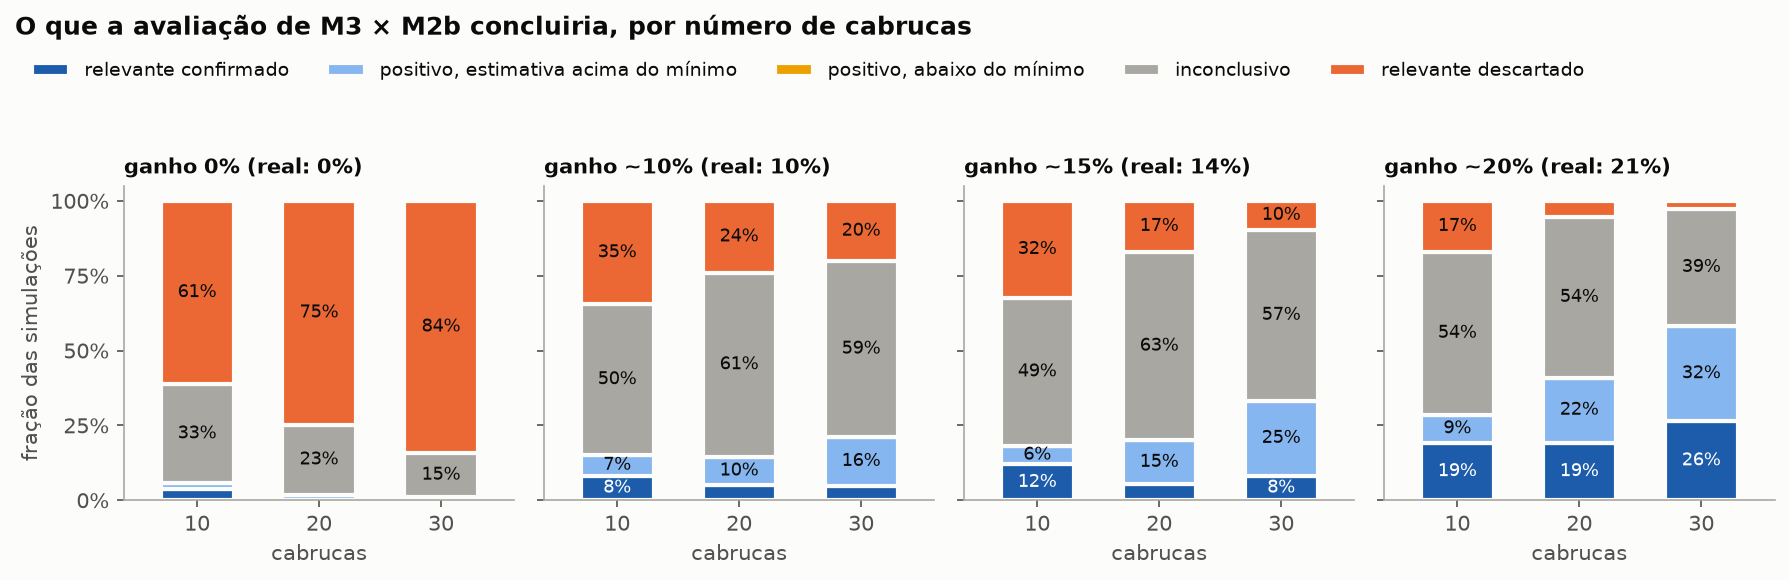
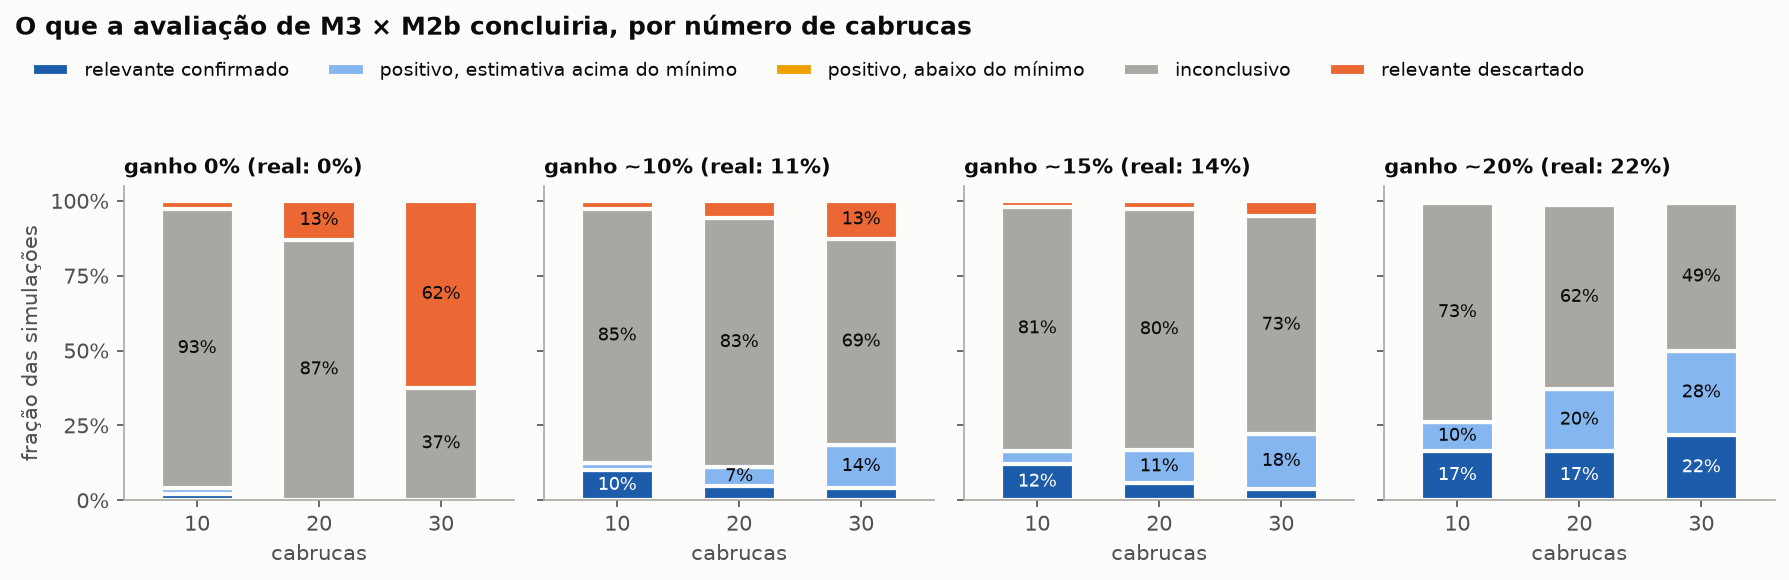
docs: H2 as estimation with refit-bootstrap interval and achievable-gain estimand
Records the 500-replicate coverage comparison (run at f25fdcd): basic
refit bootstrap covers 90% overall vs 74% for the previous method.
Decision E becomes an interpretation rule with written categories.

diff --git a/docs/simulacao-dimensionamento.md b/docs/simulacao-dimensionamento.md
@@ -1,10 +1,10 @@
 # Simulação de dimensionamento: quantas cabrucas?
 
-**Data:** 2026-10-03 · **Status:** segunda rodada, revisada; informa a decisão C do [desenho analítico](desenho-analitico.md) (seção 9) e mostra que o método de intervalo da seção 4 precisa ser trocado
+**Data:** 2026-10-04 · **Status:** terceira rodada; fecha o método de inferência e o estimando de H2 ([desenho analítico](desenho-analitico.md), seção 4) e informa a decisão C (seção 9)
 
 ## Pergunta
 
-Com 10, 20 ou 30 cabrucas, a análise principal do desenho consegue avaliar se a dimensão temporal do Sentinel-2 acrescenta um ganho relevante (H2: M3 × M2b; decisão E: pelo menos 10% do MAE de M2b)?
+Com 10, 20 ou 30 cabrucas, com que precisão a análise principal do desenho estima o ganho da dimensão temporal do Sentinel-2 (H2: M3 × M2b), e qual método de intervalo tem a cobertura que promete?
 
 ## O que foi simulado
 
@@ -13,58 +13,82 @@ A simulação gera dados com a estrutura que o estudo supõe e aplica a análise
 1. **Condição ecológica latente** de cada cabruca: estado médio do dossel (30% da variância), contexto da paisagem (20%), dinâmica temporal (o que H2 testa) e um resíduo que nenhum preditor capta.
 2. **Comunidade de aves:** 140 espécies, metade florestais (escala de Oliveira *et al.* 2026); a chance de ocupar a cabruca sobe com a condição para as florestais. Os parâmetros das espécies são sorteados por repetição.
 3. **Observação:** 252 minutos por cabruca × campanha (um ponto do protocolo inicial); chance por minuto de cada espécie presente ser gravada sorteada entre 0,0005 e 0,03, o que detecta cerca de 56% das espécies presentes; o reconhecedor acerta 80% das vocalizações gravadas e inclui por engano 1% das espécies ausentes.
-4. **Referência (decisão B1):** união das listas de 5 matas independentes.
+4. **Referência (decisão B1):** união das listas de 5 matas independentes, sorteada uma vez por repetição e compartilhada pela amostra e pelos ganhos de referência (na rodada anterior cada amostra tinha a sua, o que somava ruído aos ganhos de referência).
 5. **Resposta:** distância de Jaccard entre a lista da cabruca e a referência.
 6. **Preditores com ruído:** janela recente, mediana anual, dinâmica e paisagem.
-7. **Análise do desenho:** M2b e M3 em regressão ridge (λ = 1), cada cabruca prevista por um modelo ajustado sem ela; ganho = 1 − MAE(M3)/MAE(M2b), com intervalo de 90% por reamostragem pareada de cabrucas.
-8. **Ganho verdadeiro** de cada repetição: mesma comunidade, modelo ajustado em 4.000 propriedades e avaliado em outras 4.000.
+7. **Análise do desenho:** M2b e M3 em regressão ridge (λ = 1), cada cabruca prevista por um modelo ajustado sem ela; ganho = 1 − MAE(M3)/MAE(M2b).
+8. **Dois estimandos**, no mesmo mundo da repetição, medidos em 4.000 propriedades novas: o **ganho de população** (modelos ajustados em outras 4.000) e o **ganho alcançável com o n do estudo** (média de 100 ajustes com n cabrucas).
 
-Os cenários foram **calibrados pelo ganho verdadeiro**: 0%, ~10%, ~15% e ~20% do MAE. Os dois últimos exigem um descritor de dinâmica menos ruidoso que o suposto inicialmente (ruído 0,4 em vez de 0,7); ganhos acima de ~24% não são alcançáveis nesta estrutura, porque dossel e paisagem já explicam metade da variância. São 500 repetições por cenário; código em `src/satbio/simulacao.py`, execução com `uv run python scripts/simulacao_dimensionamento.py` (cerca de 3 minutos).
+Os cenários foram **calibrados pelo ganho de população**: 0%, ~10%, ~15% e ~20% do MAE. Os dois últimos exigem um descritor de dinâmica menos ruidoso que o suposto inicialmente (ruído 0,4 em vez de 0,7). São 500 repetições por cenário; código em `src/satbio/simulacao.py`, execução com `uv run python scripts/simulacao_dimensionamento.py` (cerca de 3 minutos em 10 núcleos). Saídas e manifesto em `data/processed/simulacao/` (fora do git).
+
+## Método de inferência
+
+Quatro intervalos de 90% foram calculados em cada repetição:
+
+- **Erros fixos** (o método anterior do desenho): reamostragem pareada dos erros da validação deixando um fora.
+- **Reajuste, percentil:** reamostragem de propriedades com reposição; em cada réplica os modelos são reajustados e a validação por propriedade retida é refeita, com as cópias da retida fora do treino (200 réplicas na simulação). Intervalo pelos quantis das réplicas.
+- **Reajuste, básico:** as mesmas réplicas, intervalo 2·ganho − quantis. Cada réplica treina com cerca de 63% de propriedades distintas e por isso sai deslocada para baixo; o intervalo básico desconta esse deslocamento.
+- **Validação cruzada corrigida:** 5 dobras repetidas 20 vezes, variância da razão pelo método delta com a correção de Nadeau & Bengio (2003) na forma de Bouckaert & Frank (2004).
+
+Também foi feito o **teste de permutação** do descritor de dinâmica (199 permutações), que testa só se o ganho é maior que zero.
+
+**Cobertura do IC90 contra o ganho alcançável** (erro de Monte Carlo de ±1,3 ponto por célula):
+
+| Cabrucas | Ganho de população | Ganho alcançável | Erros fixos | Reajuste, percentil | **Reajuste, básico** | CV corrigida |
+|---|---|---|---|---|---|---|
+| 10 | 0% | −6% | 79% | 100% | 93% | 92% |
+| 10 | 11% | 5% | 60% | 99% | 87% | 78% |
+| 10 | 14% | 9% | 58% | 100% | 86% | 74% |
+| 10 | 22% | 17% | 63% | 99% | 85% | 74% |
+| 20 | 0% | −3% | 82% | 100% | 99% | 99% |
+| 20 | 11% | 8% | 72% | 94% | 92% | 78% |
+| 20 | 14% | 12% | 75% | 93% | 91% | 80% |
+| 20 | 22% | 20% | 78% | 96% | 89% | 82% |
+| 30 | 0% | −2% | 83% | 100% | 100% | 99% |
+| 30 | 11% | 9% | 77% | 90% | 86% | 81% |
+| 30 | 14% | 13% | 81% | 93% | 89% | 84% |
+| 30 | 22% | 21% | 83% | 93% | 87% | 85% |
+| **Geral** | | | **74%** | **97%** | **90%** | **84%** |
+
+Contra o ganho de população, as coberturas gerais são 67%, 95%, 90% e 81%.
+
+**Escolha (2026-10-04): reamostragem de propriedades com reajuste, intervalo básico**, por ter a cobertura geral mais próxima de 90%. Ela fica abaixo de 90% em alguns cenários com ganho (85% a 89%, até 4 pontos além do erro de Monte Carlo) e acima sem ganho (93% a 100%), o que torna falsos positivos raros. O intervalo percentil nunca fica abaixo de 90%, mas é conservador (97% no geral, largura igual); fica registrado como análise de sensibilidade. A validação cruzada corrigida e o método anterior cobrem pouco quando há ganho. O teste de permutação tem o tamanho correto (rejeita 4,6% a 5% das vezes sem ganho, para α = 5%) e é reportado ao lado do intervalo.
+
+**Estimando: ganho alcançável com o n do estudo.** A justificativa está no desenho analítico (seção 4). O ganho alcançável fica 5 pontos abaixo do de população com 10 cabrucas e 1,5 com 30.
 
 ## Resultado
 
 ![Resultado da simulação por número de cabrucas e ganho verdadeiro](img/simulacao-dimensionamento.png)
 
-**Precisão e confiabilidade da estimativa do ganho** (o que fecha a decisão C):
+**Precisão da estimativa do ganho, com o método adotado:**
 
-| Cabrucas | Ganho verdadeiro | Estimativa média | Desvio-padrão da estimativa | Largura do IC90 | Cobertura do IC90 |
-|---|---|---|---|---|---|
-| 10 | 0% | −6% | 0,17 | 0,39 | 56% |
-| 10 | 21% | 14% | 0,24 | 0,47 | 55% |
-| 20 | 0% | −3% | 0,06 | 0,17 | 60% |
-| 20 | 21% | 18% | 0,14 | 0,37 | 73% |
-| 30 | 0% | −2% | 0,04 | 0,11 | 61% |
-| 30 | 21% | 20% | 0,11 | 0,31 | 78% |
-
-**O que a regra da decisão E concluiria** (fração das repetições):
-
-| Cabrucas | Ganho verdadeiro | Relevante confirmado | Positivo, estimativa ≥ 10% | Positivo, abaixo de 10% | Inconclusivo | Relevante descartado |
+| Cabrucas | Ganho alcançável | Estimativa média | Desvio-padrão da estimativa | Largura mediana do IC90 | IC exclui zero | Permutação rejeita (5%) |
 |---|---|---|---|---|---|---|
-| 10 | 0% | 4% | 2% | 0% | 33% | 61% |
-| 10 | 21% | 19% | 9% | 0% | 54% | 17% |
-| 20 | 0% | 0% | 2% | 0% | 23% | 75% |
-| 20 | 21% | 19% | 22% | 0% | 54% | 5% |
-| 30 | 0% | 0% | 1% | 0% | 15% | 84% |
-| 30 | 21% | 26% | 32% | 0% | 39% | 3% |
+| 10 | −6% | −6% | 0,16 | 1,04 | 4% | 5% |
+| 10 | 17% | 14% | 0,22 | 1,02 | 26% | 34% |
+| 20 | −3% | −3% | 0,06 | 0,40 | 0% | 5% |
+| 20 | 8% | 8% | 0,12 | 0,54 | 11% | 38% |
+| 20 | 20% | 19% | 0,14 | 0,59 | 37% | 74% |
+| 30 | −2% | −2% | 0,04 | 0,23 | 0% | 5% |
+| 30 | 9% | 9% | 0,10 | 0,38 | 18% | 56% |
+| 30 | 21% | 20% | 0,11 | 0,44 | 50% | 89% |
 
-"Relevante confirmado": o intervalo inteiro acima de 10%. "Positivo, estimativa ≥ 10%": o intervalo exclui zero e a estimativa passa de 10%, mas o intervalo ainda admite ganho irrelevante. A tabela completa (com os cenários de ~10% e ~15%) fica em `data/processed/simulacao/resumo.csv`.
+A tabela completa (todos os cenários, leituras da decisão E, viés de cada método) fica em `data/processed/simulacao/resumo.csv`.
 
 ## O que isso quer dizer
 
-- **O intervalo do desenho não é confiável com 10 a 30 cabrucas.** Um IC90 deveria cobrir o ganho verdadeiro em 90% das vezes; aqui cobre de 54% a 81%. Há duas causas. (1) **Viés para baixo**: com poucas cabrucas, o modelo maior paga o custo de estimar um parâmetro a mais, e a estimativa sai abaixo do ganho de população (−6 a −8 pontos com 10 cabrucas, −1 a −2 com 30). (2) **Intervalo estreito demais**: a reamostragem dos erros da validação deixando um fora trata esses erros como independentes, mas eles compartilham dados de treino; com 10 cabrucas o intervalo tem largura 0,47 quando a dispersão real pediria cerca de 0,7. Por isso, sem nenhum ganho real e com 10 cabrucas, a regra "confirma" ganho relevante em 4% das vezes.
-- **10 cabrucas não informam sobre H2.** A estimativa varia ±0,2 a 0,24 (um desvio-padrão), mais que qualquer ganho plausível.
-- **Com 30 cabrucas, um ganho de 20% começa a aparecer.** O intervalo exclui zero em 58% das repetições e o ganho é descartado em só 3%; o desvio-padrão da estimativa cai para 0,11. Um ganho de 10% continua majoritariamente inconclusivo em qualquer n testado.
-- **Precisão por número de cabrucas.** O desvio-padrão da estimativa cai de ~0,22 (10) para ~0,13 (20) e ~0,10 (30). Distinguir com folga um ganho de 20% de zero pediria desvio-padrão de cerca de 0,07, o que, pela tendência, exigiria por volta de 60 cabrucas.
-- **O MAE comprime o ganho.** Como propriedade da métrica: com erros aproximadamente normais, a razão dos MAE é a raiz da razão dos MSE, então 10% de ganho em MAE corresponde a cerca de 19% de redução do erro quadrático. Nos cenários, um ganho de 21% em MAE corresponde a cerca de 37% em MSE.
+- **O intervalo antigo prometia mais precisão do que havia.** Com intervalos que cobrem o que prometem, a largura do IC90 é 1,0 com 10 cabrucas, 0,4 a 0,6 com 20 e 0,23 a 0,44 com 30. A largura com ganho é maior que sem ganho porque a variância do ganho cresce com ele.
+- **10 cabrucas não informam sobre H2:** o intervalo cobre de −50% a +50%.
+- **Com 30 cabrucas, um ganho de 20% é estimado com intervalo de ±0,22.** O intervalo exclui zero em metade das repetições; o teste de permutação rejeita em 89%. Um ganho de 10% fica com intervalo de ±0,19, do tamanho do próprio ganho.
+- **O teste de permutação tem bem mais poder que o intervalo** para dizer que há ganho, mas não diz quanto. É o resultado complementar natural para "a dinâmica acrescenta algo?".
+- **O MAE comprime o ganho.** Com erros aproximadamente normais, a razão dos MAE é a raiz da razão dos MSE: 10% de ganho em MAE corresponde a cerca de 19% em MSE.
 
 ## Limites
 
-Os números valem para as suposições acima, que não foram medidas em cabruca: frações de sinal, detectabilidade, erro do reconhecedor, ruído dos descritores e condição das matas. Preditores independentes entre si tornam a simulação otimista (na prática, a dinâmica do dossel se correlaciona com o estado médio). A simulação usa uma campanha por cabruca, não modela lacunas ópticas além do ruído, nem dependência espacial entre propriedades vizinhas, nem a opção B2 de referência, e usa ridge com λ fixo (quase uma regressão comum com tão poucas cabrucas). O piloto de campo e a parceria devem trazer valores melhores para essas suposições, e a simulação deve ser rodada de novo antes de fechar a decisão C.
+Os números valem para as suposições acima, que não foram medidas em cabruca: frações de sinal, detectabilidade, erro do reconhecedor, ruído dos descritores e condição das matas. Esta rodada ainda é otimista: os preditores são independentes entre si, não há lacunas ópticas além do ruído nem dependência espacial entre propriedades vizinhas, a referência é sempre B1 e o ridge usa λ fixo. A cobertura foi medida nos mesmos cenários em que o método foi escolhido; ela precisa ser conferida de novo nos cenários menos otimistas.
 
-## Decisões que isto levanta
+## Decisões que isto fecha ou levanta
 
-1. **Método de inferência (seção 4 do desenho).** O intervalo por reamostragem dos erros da validação deixando um fora precisa ser substituído por um método cuja cobertura seja verificada nesta mesma simulação antes de congelar o desenho. Candidatos: teste de permutação para "o ganho é maior que zero" (permutar o descritor de dinâmica entre cabrucas e refazer a validação); validação cruzada repetida com correção de variância; ou reamostragem que reajusta os modelos a cada réplica.
-2. **Estimando.** Decidir se H2 é sobre o ganho de população (a informação existe no satélite) ou sobre o ganho alcançável com o número de cabrucas do estudo (o que esta amostra consegue aproveitar). Com poucas cabrucas eles diferem.
-3. **Decisão C.** 10 cabrucas parecem insuficientes; 30 começam a informar sobre ganhos de ~20%; ganhos de ~10% pediriam bem mais. Isso depende do método de inferência que for adotado.
-4. **Como reportar H2.** Estimativa com intervalo (precisão) como resultado principal, com a decisão E para interpretar, e a leitura da regra fechada por escrito (ver as categorias acima).
-5. **Esforço e descritores.** Mais minutos por campanha e um descritor de dinâmica menos sensível a lacunas aumentam o ganho alcançável; ganhos de 15% a 20% só existem nesta estrutura com descritor de dinâmica pouco ruidoso.
+1. **Fechado:** método de inferência e estimando de H2 (desenho analítico, seção 4).
+2. **Fechado:** H2 é reportada como estimativa com intervalo; a decisão E vira regra de leitura, com as categorias escritas no desenho.
+3. **Decisão C:** depende da rodada menos otimista.

diff --git a/docs/desenho-analitico.md b/docs/desenho-analitico.md
@@ -1,6 +1,6 @@
 # Desenho analítico — satbio
 
-**Status:** rascunho, 2026-10-03; decisões A, D e E fechadas em 2026-10-03, B e C abertas. Responde à revisão externa do projeto feita após o piloto técnico. Substitui a seção 6.4 do PRD quando aprovado. As decisões marcadas **[aberta]** precisam ser fechadas antes da coleta definitiva; depois disso este documento é congelado (versão e data registradas) e qualquer mudança passa a ser registrada como desvio.
+**Status:** rascunho, 2026-10-03; decisões A, D e E fechadas em 2026-10-03, inferência e estimando de H2 em 2026-10-04; B e C abertas. Responde à revisão externa do projeto feita após o piloto técnico. Substitui a seção 6.4 do PRD quando aprovado. As decisões marcadas **[aberta]** precisam ser fechadas antes da coleta definitiva; depois disso este documento é congelado (versão e data registradas) e qualquer mudança passa a ser registrada como desvio.
 
 Este documento existe porque o PRD descreve bem o que medir, mas não fixa a ligação entre o que será gravado, o indicador ecológico calculado e o que o modelo prevê. Sem essa ligação, um modelo pode ter bom desempenho respondendo a uma pergunta diferente da proposta.
 
@@ -58,7 +58,23 @@ H1 é uma hipótese de **associação**; H2 e H3 são hipóteses de **ganho de p
 
 O controle M2b separa dois benefícios possíveis da série: uma estimativa mais estável do estado da vegetação (M2b × M2) e informação sobre dinâmica (M3 × M2b). Só o segundo sustenta a afirmação de que a dimensão temporal acrescenta informação.
 
-**Métrica principal:** erro absoluto médio (MAE) da resposta nas propriedades retidas, com intervalo por reamostragem de propriedades. **Em revisão:** a [simulação de dimensionamento](simulacao-dimensionamento.md) mostrou que o intervalo por reamostragem dos erros da validação deixando um fora cobre o ganho verdadeiro em só 54% a 81% das vezes com 10 a 30 cabrucas (viés para baixo e intervalo estreito demais). O método de inferência precisa ser trocado, e sua cobertura verificada na simulação, antes de congelar o desenho. **Decisão E — ganho mínimo relevante [fechada em 2026-10-03]:** em cada comparação, o ganho é relevante se o modelo maior reduzir o MAE em pelo menos 10% do MAE do modelo de base daquela comparação (para H2, 10% do MAE de M2b). Um intervalo que inclua zero e o ganho mínimo é inconclusivo, não evidência de ausência de benefício.
+**Métrica principal:** erro absoluto médio (MAE) da resposta nas propriedades retidas.
+
+**H2 é uma estimação, não um teste de limiar [fechado em 2026-10-04].** O resultado principal de H2 é a estimativa do ganho de M3 sobre M2b, 1 − MAE(M3)/MAE(M2b), com intervalo de 90%. A largura do intervalo (precisão) é reportada junto, porque com o número de cabrucas viável ela é da ordem do próprio ganho ([simulação](simulacao-dimensionamento.md)).
+
+- **Estimando: o ganho alcançável com o n do estudo.** É o ganho que modelos ajustados com as n cabrucas do estudo teriam em propriedades novas da mesma região. A alternativa, o ganho de população (com modelos ajustados em muitas propriedades), mede se a informação existe no satélite, mas a validação cruzada estima o desempenho do ajuste com cerca de n propriedades, e passar dele ao de população exigiria extrapolar em n, o que os dados não sustentam. Nas simulações o ganho alcançável fica abaixo do de população (5 pontos a menos com 10 cabrucas, 2 com 30), então um ganho alcançável positivo é uma leitura conservadora do de população; o contrário não vale, e um ganho alcançável nulo com poucas cabrucas não descarta informação no satélite.
+- **Método de inferência: reamostragem de propriedades com reajuste, intervalo básico.** Cada réplica sorteia propriedades (ou grupos de propriedades vizinhas) com reposição e refaz a validação por propriedade retida, com as cópias da retida fora do treino; o intervalo é 2·ganho − quantis das réplicas, o que desconta o deslocamento para baixo das réplicas (cada uma treina com ~63% de propriedades distintas). Escolhido por ter a cobertura mais próxima de 90% contra o estimando: 90% no geral e 85% a 100% por cenário, contra 74% do método anterior (reamostragem dos erros fixos), 84% da validação cruzada repetida com correção de variância e 97% do intervalo percentil (conservador). Na análise real, com pelo menos 2.000 réplicas. Detalhes em [`simulacao-dimensionamento.md`](simulacao-dimensionamento.md).
+- **Análise complementar:** teste de permutação do descritor de dinâmica entre propriedades (valor-p unilateral para ganho > 0). Tem o tamanho correto (4,6% a 5% para α = 5%) e mais poder que o intervalo, mas não diz o tamanho do ganho; é reportado ao lado, não no lugar.
+
+**Decisão E — ganho mínimo relevante, como regra de interpretação [fechada em 2026-10-03; papel revisto em 2026-10-04].** O ganho é relevante se for de pelo menos 10% do MAE do modelo de base de cada comparação (para H2, 10% do MAE de M2b). A decisão E não decide H2; ela diz como ler o intervalo. As leituras, fixadas antes dos dados:
+
+| Leitura | Quando | O que se escreve |
+|---|---|---|
+| Ganho relevante | Intervalo inteiro ≥ 10% | A dinâmica acrescenta um ganho relevante com este n |
+| Positivo, tamanho incerto | Intervalo exclui zero, estimativa ≥ 10%, limite inferior < 10% | Há ganho; não se sabe se é relevante |
+| Positivo pequeno | Intervalo entre 0 e 10% | Há ganho, abaixo do relevante |
+| Relevante descartado | Limite superior < 10% e intervalo inclui zero | Um ganho relevante é improvável com este n; não é evidência de que a informação não existe no satélite |
+| Inconclusivo | Os demais casos (o intervalo inclui zero e 10%) | O estudo não tem precisão para dizer; reporta-se a largura do intervalo |
 
 ## 5. Descritores (limitados e ligados a hipóteses)
 
@@ -103,7 +119,8 @@ Um preditor útil pode estar funcionando como substituto de outro fator; desempe
 - **Uma análise principal simples:** regressão linear regularizada com os descritores da seção 5, validação deixando uma propriedade de fora (ou grupos de propriedades vizinhas, se houver dependência espacial entre elas). Random Forest e modelos aditivos entram como análises secundárias, reportadas como tal.
 - Nenhuma escolha (índices, escalas, janelas, hiperparâmetros) é feita com as propriedades retidas.
 - **A validação corresponde à aplicação:** prever uma propriedade nova da mesma região. Transferência para outra paisagem ou para outro ano não é testada pelo desenho e não será afirmada.
-- **Dimensionamento por simulação, antes da coleta** (primeira versão em [`simulacao-dimensionamento.md`](simulacao-dimensionamento.md)): simular o fluxo completo (heterogeneidade entre propriedades, detecção imperfeita, erro do reconhecedor, lacunas ópticas e validação por propriedade retida) para estimar a precisão do ganho M3 × M2b em função do número de cabrucas. O resultado fecha a Decisão C.
+- **Intervalo do ganho** pela reamostragem de propriedades com reajuste (intervalo básico, seção 4), com as réplicas sorteando os mesmos grupos usados na validação.
+- **Dimensionamento por simulação, antes da coleta** ([`simulacao-dimensionamento.md`](simulacao-dimensionamento.md)): simula o fluxo completo (heterogeneidade entre propriedades, detecção imperfeita, erro do reconhecedor, lacunas ópticas e validação por propriedade retida) e o método de inferência adotado, e mede a precisão do ganho M3 × M2b em função do número de cabrucas. O critério de dimensionamento é a precisão (largura do intervalo), não a chance de "confirmar" o ganho. O resultado fecha a Decisão C.
 
 ## Decisões abertas
 
@@ -113,10 +130,13 @@ Um preditor útil pode estar funcionando como substituto de outro fator; desempe
 | B | Referência independente ou construída no treino | Acesso a matas com o mesmo protocolo | B1, se a parceria permitir |
 | C | Número de cabrucas e de matas | Parceria (UESC), recursos, simulação | Fechar após a simulação |
 | D | Regra de validade do pixel | Custo da consulta à cena de origem | **Fechada:** SCL da cena de origem + B02 ≤ 0,10 |
-| E | Ganho mínimo relevante | Julgamento ecológico | **Fechada:** 10% do MAE do modelo de base de cada comparação |
+| E | Ganho mínimo relevante | Julgamento ecológico | **Fechada:** 10% do MAE do modelo de base de cada comparação; desde 2026-10-04, regra de interpretação do intervalo (seção 4) |
+| — | Inferência e estimando de H2 | Simulação | **Fechado em 2026-10-04:** ganho alcançável com o n do estudo; reamostragem de propriedades com reajuste, intervalo básico |
 
 ## Referências desta seção
 
 - Baselga A. 2012. The relationship between species replacement, dissimilarity derived from nestedness, and nestedness. *Global Ecology and Biogeography* 21: 1223–1232. https://doi.org/10.1111/j.1466-8238.2011.00756.x
 - Oliveira IS, Bandeira EC, Figueiredo MG, Morante-Filho JC. 2026. *Ornithology Research* 34: 13. https://doi.org/10.1007/s43388-026-00275-2
+- Bouckaert RR, Frank E. 2004. Evaluating the replicability of significance tests for comparing learning algorithms. *PAKDD 2004*, LNCS 3056: 3–12. https://doi.org/10.1007/978-3-540-24775-3_3
+- Nadeau C, Bengio Y. 2003. Inference for the generalization error. *Machine Learning* 52: 239–281. https://doi.org/10.1023/A:1024068626366
 - Roberts DR *et al.* 2017. Cross-validation strategies for data with temporal, spatial, hierarchical, or phylogenetic structure. *Ecography* 40: 913–929. https://doi.org/10.1111/ecog.02881
